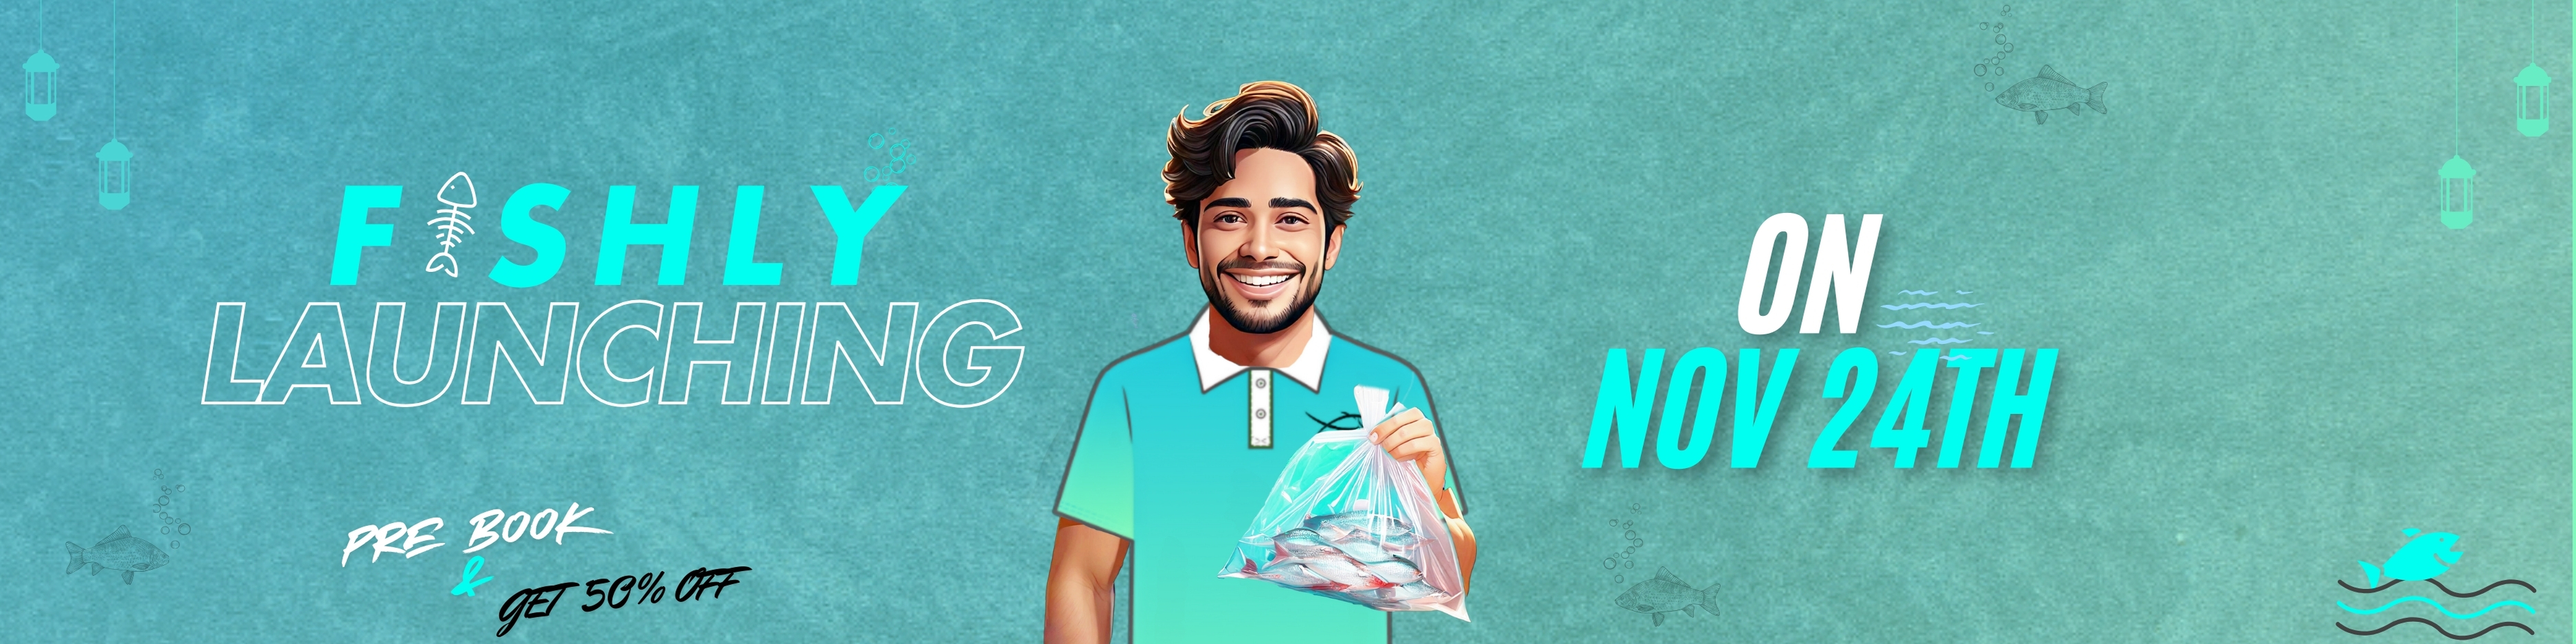
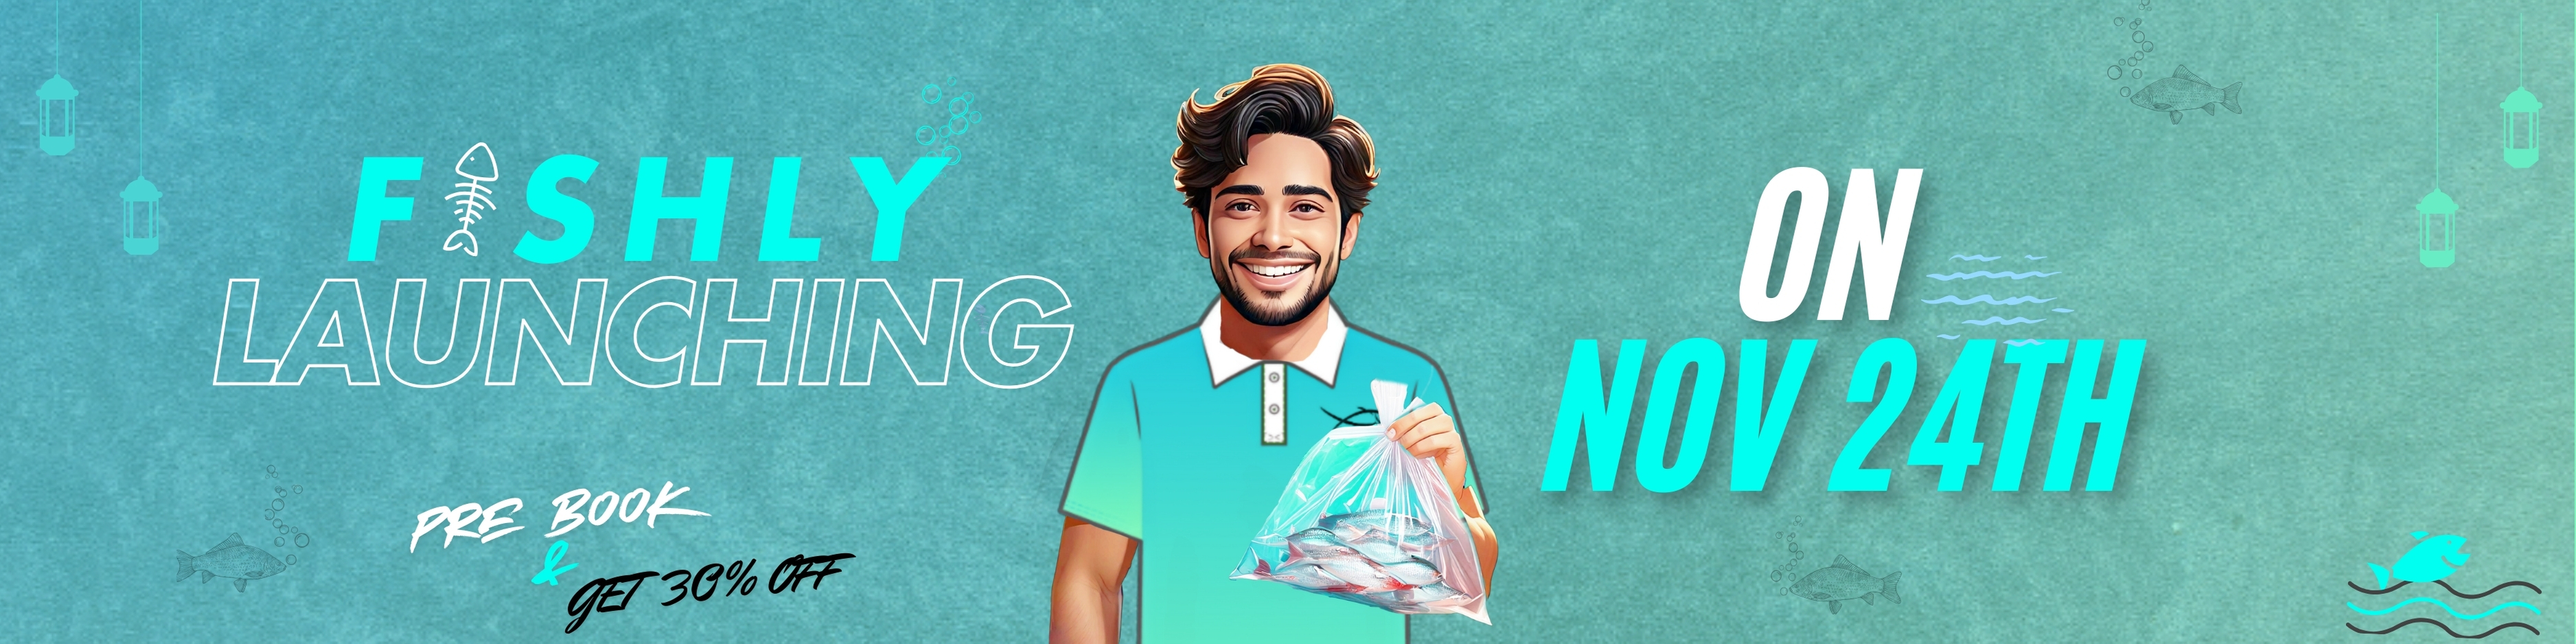
30 offer

diff --git a/src/components/Checkout.tsx b/src/components/Checkout.tsx
@@ -1,8 +1,8 @@
 import React, { useContext, useState, useEffect } from "react";
 import { useNavigate } from "react-router-dom";
 import { CartContext } from "./CartContext";
-import DatePicker from 'react-datepicker';
-import 'react-datepicker/dist/react-datepicker.css'
+import DatePicker from "react-datepicker";
+import "react-datepicker/dist/react-datepicker.css";
 import axios from "axios";
 
 const Checkout: React.FC = () => {
@@ -23,7 +23,7 @@ const Checkout: React.FC = () => {
   const [paymentMethod, setPaymentMethod] = useState("Cash on Delivery");
   const [productsSummary, setProductsSummary] = useState<string>("");
   const [selectedService, setSelectedService] = useState("Onsite cut");
-  const [prebookingDate, setPrebookingDate] = useState<Date|null>(null);
+  const [prebookingDate, setPrebookingDate] = useState<Date | null>(null);
 
   const minDate = new Date(2024, 10, 24);
 
@@ -60,7 +60,6 @@ const Checkout: React.FC = () => {
         if (response.data != "") {
           setIsAddress(response.data.Address);
           setFormattedAddress(response.data.Address);
-          
         }
       } catch (error) {
         console.error("Error", error);
@@ -68,14 +67,13 @@ const Checkout: React.FC = () => {
     };
 
     fetchData();
-  }, );
+  });
 
   useEffect(() => {
     const formatted = `${address.street} ${address.area} ${address.city} ${address.pincode} ${address.landmark}`;
     setFormattedAddress(formatted.trim());
-    
-    console.log(formattedAddress)
 
+    console.log(formattedAddress);
   }, [address]);
 
   useEffect(() => {
@@ -85,21 +83,19 @@ const Checkout: React.FC = () => {
     setProductsSummary(summary);
   }, [cartItems]);
 
-
   // const Adddata = {
   //   address: formattedAddress
   // }
 
   const handleAddress = async () => {
     // console.log(Adddata)
-    const forData = `${address.street} ${address.area} ${address.city} ${address.pincode} ${address.landmark}`.trim();
-    
+    const forData =
+      `${address.street} ${address.area} ${address.city} ${address.pincode} ${address.landmark}`.trim();
 
-
-    try{
+    try {
       const resp = await axios.post(
         `https://api.fishly.co.in/updateAddress/${uid}`,
-        {"address": forData},
+        { address: forData },
         {
           headers: {
             "Content-Type": "application/json",
@@ -108,48 +104,48 @@ const Checkout: React.FC = () => {
       );
 
       console.log(resp.data);
-      if(resp.data.Result != "No user found."){
-        setIsAddress(true)
+      if (resp.data.Result != "No user found.") {
+        setIsAddress(true);
       }
 
       // setIsAddress(resp.data.Address)
-    }
-    catch(error) {
+    } catch (error) {
       console.error(error);
     }
-  }
+  };
 
   const buttonText =
     paymentMethod === "Cash on Delivery" ? "Place Order" : "Coming Soon";
 
-
-  const placeOrder = async() => {
+  const placeOrder = async () => {
     const data = {
       customer_id: uid,
       address: formattedAddress,
       order: productsSummary,
       cuttingMethod: cuttingMethod,
       paymentMethod: paymentMethod,
-      cost: totalPrice/2,
+      cost: totalPrice / 2,
       transaction_id: "",
       status: "Order Placed",
-    }
+    };
 
     try {
-      const response = await axios.post("https://api.fishly.co.in/addOrder", data, {
-        headers: {
-          "Content-Type": "application/json"
+      const response = await axios.post(
+        "https://api.fishly.co.in/addOrder",
+        data,
+        {
+          headers: {
+            "Content-Type": "application/json",
+          },
         }
-      });
+      );
 
       alert(response.data.Success);
-      navigate("/")
-    } catch (error) {
-      
-    }
+      navigate("/");
+    } catch (error) {}
 
     console.log(data);
-  }
+  };
 
   // const isAddressComplete =
   //   address.street.trim() &&
@@ -206,11 +202,11 @@ const Checkout: React.FC = () => {
                 Total Price: Rs.
                 <span className="">{totalPrice.toFixed(2)}</span>
               </p>
-              <span className="text-blue-400">50% off</span>
+              <span className="text-blue-400">30% off</span>
             </div>
             <p className="text-lg">
               <span className="font-bold">Discounted Price: </span> Rs.
-              {(totalPrice / 2).toFixed(2)}
+              {(totalPrice - totalPrice * 0.3).toFixed(2)}
             </p>
           </div>
         </div>

diff --git a/src/components/WhyFishly.tsx b/src/components/WhyFishly.tsx
@@ -6,42 +6,45 @@ const features = [
     title: "Alive at your Doorstep",
     imgSrc: "./images/alive_fish.jpg",
     altText: "Alive at your Doorstep",
-    description: "We deliver fresh, live fish right to your doorstep.",
+    description: "We deliver real freshness, alive fishes at your doorstep.",
   },
   {
     id: 2,
     title: "24x7 Alive fishes",
     imgSrc: "./images/24x7_fish.jpg",
     altText: "24x7 Alive fishes",
-    description: "Enjoy live fishes available 24/7 for your convenience.",
+    description: "Skip the morning rush, we deliver 24/7.",
   },
   {
     id: 3,
     title: "No preservatives or frozen",
     imgSrc: "./images/no_preservatives.jpg",
     altText: "No preservatives or frozen",
-    description: "Our fish are never frozen or preserved, always fresh.",
+    description:
+      "You get fish as fresh as nature intended with no freezing or preservatives.",
   },
   {
     id: 4,
     title: "QC by customer",
     imgSrc: "./images/qc_customer.jpg",
     altText: "QC by customer",
-    description: "You can check the quality yourself before purchase.",
+    description:
+      "You can personally inspect your fish at delivery to guarantee it's freshness.",
   },
   {
     id: 5,
     title: "On-site cut at your place",
     imgSrc: "./images/on_site_cut.jpg",
     altText: "On-site cut in your kitchen",
-    description: "Our team will cut the fish at your location as you prefer.",
+    description:
+      "On site cleaning and cutting at customer's choosen location with no mess or hassle.",
   },
   {
     id: 6,
     title: "Pre cut with personalised video",
     imgSrc: "./images/pre_cut_video.jpg",
     altText: "Pre cut with personalised video",
-    description: "Get a personalised video of the pre-cut process.",
+    description: "Personalized video of your fish was freshly caught and cut.",
   },
 ];
 

diff --git a/src/components/ComingSoon.tsx b/src/components/ComingSoon.tsx
@@ -1,0 +1,47 @@
+const ComingSoon = () => {
+  const products = [
+    {
+      id: "1",
+      name: "Prawns",
+      image: "../images/prawns.jpg",
+      weight: "1000g",
+      pieces: "6 - 8",
+      servings: "3 - 4",
+      price: "₹220",
+    },
+    {
+      id: "2",
+      name: "Crab",
+      image: "../images/crab.jpg",
+      weight: "1000g",
+      pieces: "12 - 14",
+      servings: "3 - 4",
+      price: "₹600",
+    },
+  ];
+
+  return (
+    <div className="container mx-auto px-4 py-8">
+      <h2 className="text-center text-2xl font-bold mb-6">Coming Soon</h2>
+      <div className="grid grid-cols-1 md:grid-cols-2 lg:grid-cols-3 gap-12 justify-items-center mx-auto max-w-6xl">
+        {products.map((product) => (
+          <div
+            key={product.id}
+            className="bg-gray-200 border border-gray-400 rounded-lg p-4 shadow-lg"
+          >
+            <img
+              src={product.image}
+              alt={product.name}
+              className="w-full h-48 object-cover rounded-lg mb-4 grayscale"
+            />
+            <div className="text-center">
+              <h3 className="text-lg font-semibold mb-2">{product.name}</h3>
+            </div>
+          </div>
+        ))}
+      </div>
+    </div>
+  );
+};
+
+export default ComingSoon;

diff --git a/src/components/ProdDetails.tsx b/src/components/ProdDetails.tsx
@@ -25,7 +25,7 @@ const ProdDetails: React.FC = () => {
   useEffect(() => {
     window.scrollTo(0, 0);
 
-    const storedCount = sessionStorage.getItem(`count_${product._id}`);
+    const storedCount = sessionStorage.getItem("count_${product._id}");
     const initialCount = storedCount ? parseInt(storedCount, 10) : 0;
     setCount(initialCount);
   }, [product]);
@@ -35,10 +35,10 @@ const ProdDetails: React.FC = () => {
     const cartItem = cartItems.find((item) => item._id === product._id);
     if (cartItem) {
       setCount(cartItem.count);
-      sessionStorage.setItem(`count_${product._id}`, cartItem.count.toString());
+      sessionStorage.setItem("count_${product._id}", cartItem.count.toString());
     } else {
       setCount(0);
-      sessionStorage.removeItem(`count_${product._id}`);
+      sessionStorage.removeItem("count_${product._id}");
     }
   }, [cartItems, product._id]);
 
@@ -47,7 +47,7 @@ const ProdDetails: React.FC = () => {
       const newCount = increment ? prevCount + 1 : Math.max(prevCount - 1, 0);
 
       // Update session storage
-      sessionStorage.setItem(`count_${product._id}`, newCount.toString());
+      sessionStorage.setItem("count_${product._id}", newCount.toString());
 
       // Update cart context
       if (newCount > 0) {

diff --git a/src/components/Home.tsx b/src/components/Home.tsx
@@ -7,7 +7,8 @@ import WhyFishly from "./WhyFishly";
 import Footer from "./Footer";
 import Products from "./Products";
 import { Product } from "../types/Product";
-import { CartContext } from "./CartContext"; // Import CartContext
+import { CartContext } from "./CartContext";
+import ComingSoon from "./ComingSoon"; // Import CartContext
 
 interface HomeProps {
   onSearchChange: (term: string) => void;
@@ -67,6 +68,7 @@ const Home: React.FC<HomeProps> = ({
           onProductClick={handleProductClick}
         />
       </div>
+      <ComingSoon />
       <Footer />
     </div>
   );

diff --git a/src/types/Product.ts b/src/types/Product.ts
@@ -7,6 +7,8 @@ export interface Product {
   name: string;
   price: number;
   image: string;
+  image1: string;
+  image2: string;
   weight: string;
   pieces: string;
   servings: string;
